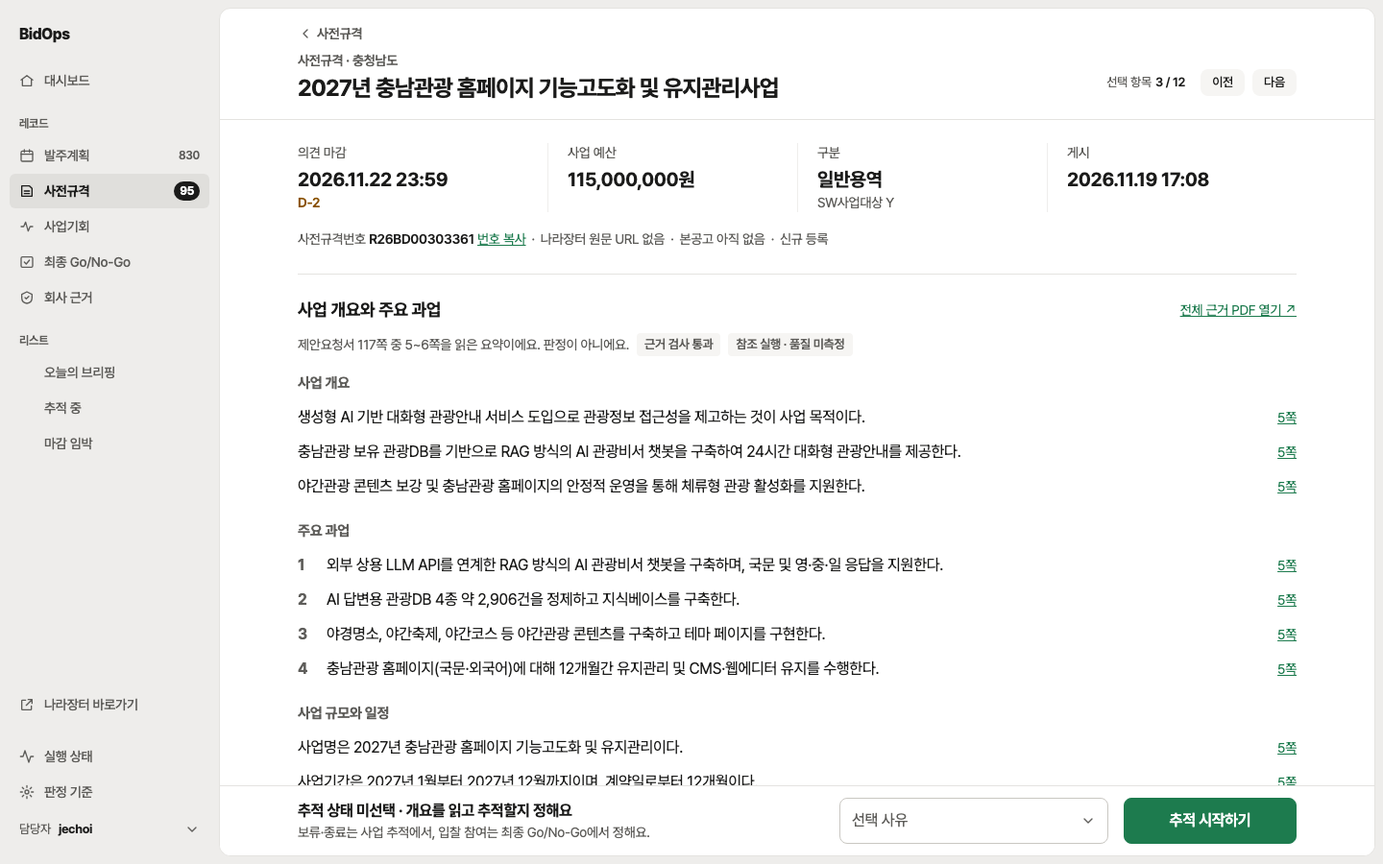
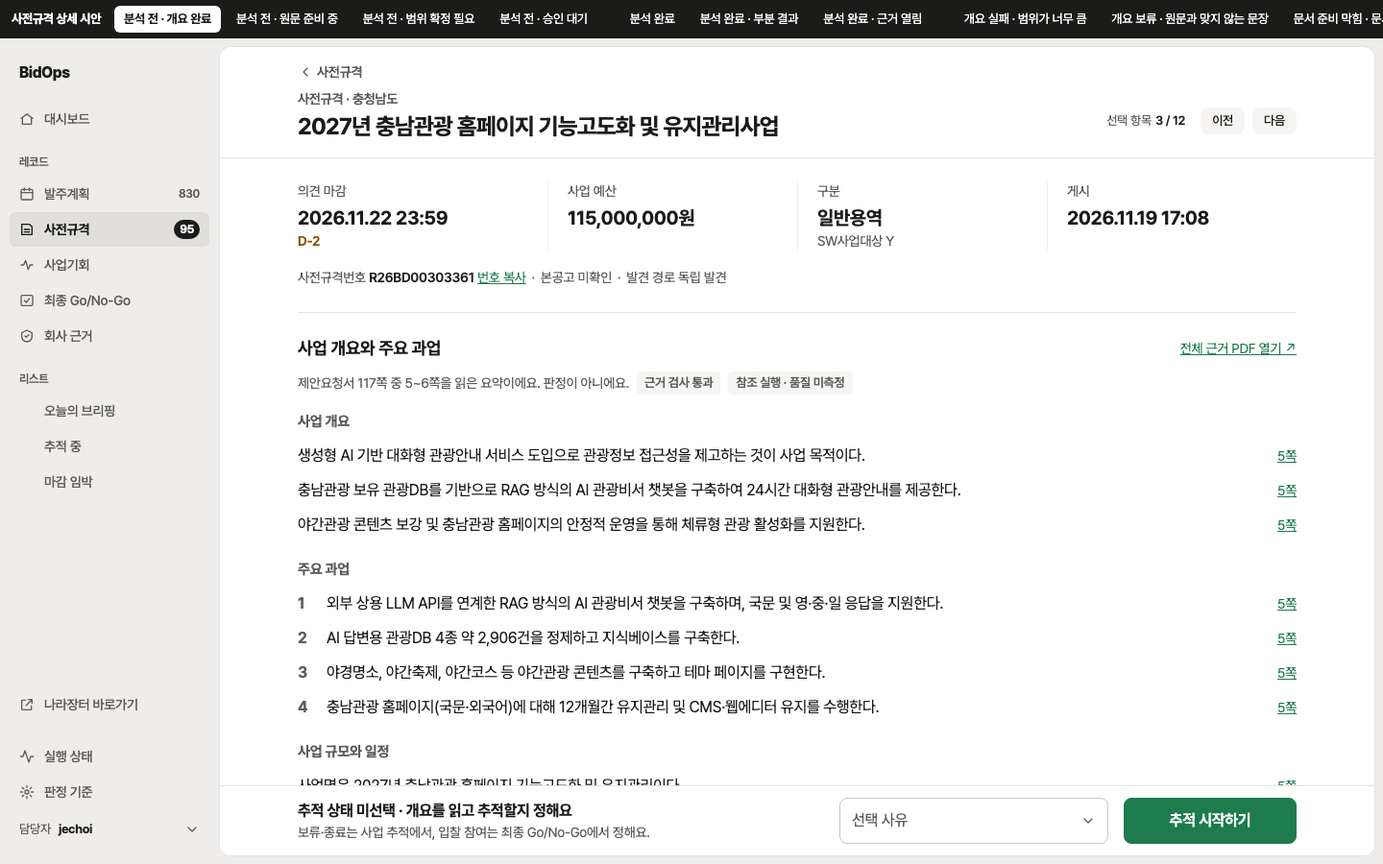
docs: problem-state mockups, planning notes and the overview range finding (2026-11-21)

diff --git a/docs/1121_prespec-detail/mockups/index.html b/docs/1121_prespec-detail/mockups/index.html
@@ -9,7 +9,9 @@
   - 분석 전(a1~a4)은 운영 3753의 공개 공고 정보와 개요 결과를 옮겼다.
   - 분석 완료(b1~b3)는 다른 공고의 실제 엔진 결과 구조와 건수(자격 조건 7·요구사항 41·리스크 11·확인 요청 63)를
     따른 예시다. 회사 근거 문구는 전부 예시이며 실제 회사 역량이 아니다.
-  - ?s=a1|a2|a3|a4|b1|b2|b3 로 상태를 바꾸고 ?bar=0 으로 위쪽 시안 안내 줄을 숨긴다.
+  - 문제 상태(c1~c5)는 운영 최근 200건의 실패·막힘 유형에서 고른 예시다. 공고 정보는 3753을 그대로 쓴다.
+    c 상태에서 ?open=1 이면 처리 상태·기술 정보가 펼쳐지고 해당 블록만 먼저 보인다.
+  - ?s=a1|a2|a3|a4|b1|b2|b3|c1..c5 로 상태를 바꾸고 ?bar=0 으로 위쪽 시안 안내 줄을 숨긴다.
 -->
 <style>
 @font-face{font-family:"Pretendard";src:local("Pretendard Variable"),local("Pretendard"),url("../../../web/frontend/public/fonts/PretendardVariable.woff2") format("woff2");font-weight:100 900;font-display:swap}
@@ -231,6 +233,23 @@ tr.is-selected td:last-child{box-shadow:12px 0 0 var(--color-background-muted)}
 /* 추적 외의 할 일(분석 승인 대기)은 본문 맨 위 한 블록 */
 .sec.task{padding:16px 0}
 .task-row{display:flex;align-items:center;justify-content:space-between;gap:16px}
+
+/* 문제 상태 안내(c1~c5): 회색 채움 한 블록. 무엇이 일어났나(굵게) → 이유 → 할 일 → 사유 코드(작게). */
+.status-notice{padding:20px;border-radius:8px;background:var(--color-background-muted)}
+.status-notice .lead{display:flex;align-items:center;gap:10px}
+.sn-line{display:flex;gap:12px;margin-top:10px;font-size:15px;line-height:23px}
+.sn-line>.k{flex:none;width:44px;font-weight:600}
+.sn-quote{margin:10px 0 0 56px;padding:12px 14px;border-radius:6px;background:#fff;font-size:15px;line-height:23px}
+.sn-quote .cap{margin-top:4px}
+.status-notice .actions{margin:14px 0 0 56px}
+.status-notice .form-row{margin:14px 0 0 56px}
+.status-notice details{margin:6px 0 0 56px}
+.status-notice details .form-row{margin-left:0}
+.status-notice .tag.neutral{background:#fff}
+.mockbar b{flex:none;white-space:nowrap}
+.sn-code{margin-top:14px;font:400 13px/20px ui-monospace,SFMono-Regular,Menlo,monospace;letter-spacing:0;color:var(--color-text-secondary)}
+.tech-block .sub-title:first-child{margin-top:0}
+.tech-block .actions{margin-top:12px}
 </style>
 
 <body>
@@ -248,16 +267,20 @@ const q = new URLSearchParams(location.search);
 const STATES = [
   ['a1', '분석 전 · 개요 완료'], ['a2', '분석 전 · 원문 준비 중'], ['a3', '분석 전 · 범위 확정 필요'], ['a4', '분석 전 · 승인 대기'],
   ['b1', '분석 완료'], ['b2', '분석 완료 · 부분 결과'], ['b3', '분석 완료 · 근거 열림'],
+  ['c1', '개요 실패 · 범위가 너무 큼'], ['c2', '개요 보류 · 원문과 맞지 않는 문장'], ['c3', '문서 준비 막힘 · 문서 확인 필요'],
+  ['c4', '문서 준비 막힘 · 첨부를 받지 못함'], ['c5', '개요 대기'],
 ];
 const S = STATES.some(([k]) => k === q.get('s')) ? q.get('s') : 'a1';
 if (q.get('bar') === '0') document.body.classList.add('nobar');
+const OPEN = S[0] === 'c' && q.get('open') === '1';
 const esc = (s) => String(s).replace(/[&<>"]/g, (c) => ({ '&': '&amp;', '<': '&lt;', '>': '&gt;', '"': '&quot;' }[c]));
 const tag = (t, tone = '') => `<span class="tag ${tone}">${t}</span>`;
 const dot = '<span class="dot">·</span>';
 
 document.getElementById('mockbar').innerHTML = '<b>사전규격 상세 시안</b>' + STATES.map(([k, n], i) =>
-  (i === 4 ? '<span class="sep"></span>' : '') + `<a href="?s=${k}" ${k === S ? 'aria-current="page"' : ''}>${n}</a>`).join('') +
-  `<span class="note">${S[0] === 'a' ? '운영 3753 조회값 (2026-11-21)' : '예시 데이터 · 회사 근거는 실제가 아님'}</span>`;
+  (i === 4 || i === 7 ? '<span class="sep"></span>' : '') + `<a href="?s=${k}" ${k === S && !OPEN ? 'aria-current="page"' : ''}>${n}</a>`).join('') +
+  (S[0] === 'c' ? `<span class="sep"></span><a href="?s=${S}&open=1" ${OPEN ? 'aria-current="page"' : ''}>기술 정보 펼침</a>` : '') +
+  `<span class="note">${S[0] === 'a' ? '운영 3753 조회값 (2026-11-21)' : S[0] === 'c' ? '예시 · 운영 최근 200건의 문제 유형 (2026-11-21)' : '예시 데이터 · 회사 근거는 실제가 아님'}</span>`;
 
 /* ───────── 분석 전 (운영 3753) ───────── */
 const A = {
@@ -288,7 +311,7 @@ const factsA = (extra = '') => `
     <div><dt>구분</dt><dd>일반용역<small>SW사업대상 Y</small></dd></div>
     <div><dt>게시</dt><dd>2026.11.19 17:08</dd></div>${extra}
   </dl>
-  <p class="ident">사전규격번호 <b>R26BD00303361</b> <button class="link" type="button">번호 복사</button>${dot}나라장터 원문 URL 없음${dot}본공고 아직 없음${dot}신규 등록</p>
+  <p class="ident">사전규격번호 <b>R26BD00303361</b> <button class="link" type="button">번호 복사</button>${dot}본공고 미확인${dot}발견 경로 독립 발견</p>
 </section>`;
 
 const reasonOptions = '<option>주력 분야와 맞음</option><option>기존 고객·유사 실적</option><option>더 살펴볼 가치 있음</option><option>기타 · 직접 입력</option>';
@@ -345,6 +368,150 @@ function pageA() {
 <section class="sec" id="files"><div class="sec-head"><h2 class="sec-title">원문·첨부<span class="n">1건</span></h2></div>${S === 'a2' ? filesA.converting : filesA.ready}</section>
 ${processA(S === 'a3', meta)}
 <p class="foot">시안 · 운영 3753의 2026-11-21 조회값을 옮겼어요.</p>`;
+}
+
+/* ───────── 문제 상태 (c1~c5, 운영 최근 200건 분포에서 고른 예시) ─────────
+   화면은 사유 코드를 고정 문장으로 바꾸고, 쪽 번호·건수·실패 문장은 서버 값을 그대로 넣는다.
+   모델이 쓴 문장은 바꿔 쓰지 않고 따옴표 블록에 원문 그대로 둔다. */
+const REASON = {
+  input_capacity_exceeded: '한 번에 읽을 수 있는 분량보다 많았어요',
+  range_fallback: '사업 개요 위치를 자동으로 찾지 못해 범위를 넓게 잡았어요',
+  semantic_review_failed: '초안 문장을 원문과 대조했더니 맞지 않는 문장이 있었어요',
+  insufficient_evidence: '근거 부족 · 그 쪽에서 이 내용을 찾지 못했어요',
+  ocr_issue: '첨부 문서의 글자 인식(OCR)이나 쪽 구조를 자동으로 확정하지 못했어요',
+  attachments_failed: '받은 첨부가 없어 문서를 준비하지 못했어요',
+};
+const SRV = { // 서버 값(예시)
+  c1: { pages: 161, from: 1, to: 60, source: 'fallback', candidates: 38 },
+  c2: { pages: 117, from: 3, to: 5, failed: [{ text: '2026년 10월부터 2027년 12월까지 유지관리 용역 수행', reason: 'insufficient_evidence', pages: [5] }] },
+  c3: { file: '제안요청서.pdf', message: 'OCR 또는 page 구조화 확인이 필요합니다' },
+  c4: { total: 1, done: 0, blocked: 1 },
+};
+const qOpen = (s, hash = '') => `?s=${s}&open=1${q.get('bar') === '0' ? '&bar=0' : ''}${hash}`;
+const rangeFields = (c, btn) => `<form class="form-row" style="grid-template-columns:140px 140px auto 1fr" onsubmit="return false">
+    <div class="field"><label for="ps">시작 쪽</label><input id="ps" inputmode="numeric" placeholder="쪽 번호"></div>
+    <div class="field"><label for="pe">끝 쪽</label><input id="pe" inputmode="numeric" placeholder="쪽 번호"></div>
+    <button class="btn" type="submit" style="height:48px">${btn}</button>
+    <button class="link" type="button" style="justify-self:start;align-self:center">절 제목에서 고르기 (후보 ${c}개)</button>
+  </form>`;
+const notice = ({ tg, lead, why, extra = '', what, act = '', code }) => `<div class="status-notice" role="status">
+  <p class="lead">${tg}<span>${lead}</span></p>
+  <p class="sn-line"><span class="k">이유</span><span>${why}</span></p>${extra}
+  <p class="sn-line"><span class="k">할 일</span><span>${what}</span></p>${act}
+  <p class="sn-code">${code}</p>
+</div>`;
+
+function noticeC() {
+  if (S === 'c1') {
+    const v = SRV.c1;
+    return notice({
+      tg: tag('개요 실패', 'err'), lead: '개요를 만들지 못했어요. 읽을 범위가 너무 넓어요',
+      why: `자동으로 고른 범위 ${v.from}~${v.to}쪽(전체 ${v.pages}쪽)이 ${REASON.input_capacity_exceeded}. ${REASON.range_fallback}.`,
+      what: '사업 개요가 있는 쪽으로 범위를 좁혀 확정해 주세요. 확정하면 그 범위로 개요를 한 번 새로 실행해요.',
+      act: rangeFields(v.candidates, '범위 확정') + `<p class="cap" style="margin:8px 0 0 56px">이전 범위 ${v.from}~${v.to}쪽${dot}전체 ${v.pages}쪽</p>`,
+      code: `input_capacity_exceeded${dot}range_source ${v.source}`,
+    });
+  }
+  if (S === 'c2') {
+    const v = SRV.c2;
+    return notice({
+      tg: tag('개요 보류', 'warn'), lead: '개요 초안을 보류했어요. 원문과 맞지 않는 문장이 있어요',
+      why: `${v.from}~${v.to}쪽을 읽고 초안을 만들었어요. ${REASON.semantic_review_failed}. 맞지 않는 문장은 ${v.failed.length}개예요.`,
+      extra: v.failed.map((f) => `<blockquote class="sn-quote">${esc(f.text)}<p class="cap">근거로 든 쪽 ${f.pages.join('·')}쪽${dot}${REASON[f.reason]}</p></blockquote>`).join(''),
+      what: `원문 ${v.failed[0].pages[0]}쪽을 열어 직접 확인하거나, 다른 범위를 확정해 개요를 다시 실행해 주세요.`,
+      act: `<div class="actions"><button class="btn" type="button">PDF ${v.failed[0].pages[0]}페이지 열기 ↗</button><button class="link" type="button" aria-expanded="false" aria-controls="rerun" onclick="const r=document.getElementById('rerun');r.hidden=!r.hidden;this.setAttribute('aria-expanded',String(!r.hidden))">다른 범위로 다시 실행하기</button></div>
+        <div id="rerun" hidden>${rangeFields(38, '범위 확정')}<p class="cap" style="margin:8px 0 0 56px">이전 범위 ${v.from}~${v.to}쪽${dot}전체 ${v.pages}쪽</p></div>`,
+      code: `semantic_review_failed${dot}needs_human_review${dot}${v.failed[0].reason}`,
+    });
+  }
+  if (S === 'c3') {
+    const v = SRV.c3;
+    return notice({
+      tg: tag('문서 준비 막힘', 'warn'), lead: '문서 준비가 멈췄어요. 첨부 문서를 사람이 확인해야 해요',
+      why: `${esc(v.file)}에서 ${REASON.ocr_issue}.`,
+      what: '문서 준비에서 문서를 확인하고 확정해 주세요. 확정해야 개요를 실행할 수 있어요.',
+      act: `<div class="actions"><a class="link" href="${qOpen('c3', '#prep')}">문서 준비 열기</a></div>`,
+      code: 'ocr_issue',
+    });
+  }
+  if (S === 'c4') {
+    const v = SRV.c4;
+    return notice({
+      tg: tag('첨부 받기 실패', 'err'), lead: '첨부를 받지 못해 개요를 만들 수 없어요',
+      why: `나라장터에서 첨부 ${v.total}건을 받으려 했지만 ${v.blocked}건이 차단됐어요. ${REASON.attachments_failed}.`,
+      what: '원본 열기로 나라장터에서 첨부를 직접 확인해 주세요. 이 화면에서는 아직 첨부를 다시 받을 수 없어요.',
+      act: '<div class="actions"><button class="btn" type="button">원본 열기 ↗</button></div>',
+      code: `attachments_failed${dot}첨부 ${v.total}건${dot}차단 ${v.blocked}`,
+    });
+  }
+  return notice({
+    tg: tag('개요 대기', 'neutral'),lead: '개요 실행을 기다리고 있어요',
+    why: '원문 준비는 끝났고 개요는 아직 시작하지 않았어요.',
+    what: '따로 할 일은 없어요. 개요는 의견 마감 전이거나 추적 중인 사전규격에서 자동으로 진행해요. 마감이 지난 건은 추적을 시작하면 진행해요.',
+    code: `bundle_ready${dot}개요 실행 기록 없음`,
+  });
+}
+
+const filesC = {
+  c1: filesTable('<tr><td>제안요청서.hwpx</td><td>HWPX · 변환 PDF 161쪽</td><td>준비 완료</td><td class="act"><a class="link" href="#">원본 열기</a>　<a class="link" href="#">변환 PDF</a>　<a class="link" href="#">다운로드</a></td></tr>'),
+  c2: filesA.ready, c5: filesA.ready,
+  c3: filesTable(`<tr><td>제안요청서.pdf</td><td>PDF</td><td>${tag('문서 확인 필요', 'warn')}</td><td class="act"><a class="link" href="#">원본 열기</a>　<a class="link" href="#">다운로드</a></td></tr>`),
+  c4: filesTable(`<tr><td>첨부 1 · 확장자 미확인 · 크기 미확인</td><td class="k">미확인</td><td>${tag('받지 못함', 'err')}</td><td class="act"><a class="link" href="#">원본 열기 ↗</a></td></tr>`),
+};
+
+/* 처리 상태·기술 정보: 문제 상태에서도 기본은 접힘. ?open=1 이면 해당 블록만 먼저 보이고 나머지는 한 번 더 접는다. */
+function processC() {
+  const step = {
+    c1: ['1건 완료', '확정 완료 · 수정본 1', tag('실패', 'err')],
+    c2: ['1건 완료', '확정 완료 · 수정본 1', tag('보류 · 사람 확인', 'warn')],
+    c3: ['1건 완료', tag('확인 필요 · 작성 중', 'warn'), '시작 전'],
+    c4: [tag('차단 1', 'err'), '없음', '시작 전'],
+    c5: ['1건 완료', '확정 완료 · 수정본 1', '대기'],
+  }[S];
+  const blocks = {
+    steps: `<h3 class="sub-title">자동 준비 단계</h3><ol class="steps">
+      <li><span class="no">1</span><b>첨부 취득</b><span>${step[0]}</span></li>
+      <li><span class="no">2</span><b>문서 묶음</b><span>${step[1]}</span></li>
+      <li><span class="no">3</span><b>개요 검토</b><span>${step[2]}</span></li></ol>
+      <p class="cap" style="margin-top:8px">첨부 취득·문서 준비·개요 검토는 의견 마감 전이거나 추적 중인 사전규격에서 자동으로 진행해요.</p>`,
+    run: S === 'c1'
+      ? `<h3 class="sub-title">마지막 개요 실행</h3><dl class="dl-inline">
+          <dt>상태</dt><dd>${tag('실패', 'err')} failed</dd><dt>사유 코드</dt><dd>input_capacity_exceeded</dd>
+          <dt>읽을 범위</dt><dd>1~60쪽 · 전체 161쪽 · range_source fallback</dd><dt>실행 시각</dt><dd>2026.11.20 13:48</dd></dl>`
+      : `<h3 class="sub-title">마지막 개요 실행</h3><dl class="dl-inline">
+          <dt>상태</dt><dd>${tag('보류', 'warn')} needs_human_review</dd><dt>사유 코드</dt><dd>semantic_review_failed</dd>
+          <dt>읽은 범위</dt><dd>3~5쪽 · 전체 117쪽</dd><dt>실행 시각</dt><dd>2026.11.20 13:48</dd></dl>
+        <table style="margin-top:12px"><thead><tr><th>failed_claims</th><th>사유</th><th class="act">근거 쪽</th></tr></thead><tbody>
+          <tr><td>2026년 10월부터 2027년 12월까지 유지관리 용역 수행</td><td>insufficient_evidence</td><td class="act"><a class="link" href="#">5쪽</a></td></tr></tbody></table>`,
+    prep: `<h3 class="sub-title" id="prep">문서 준비</h3><dl class="dl-inline">
+        <dt>문서 묶음</dt><dd>${tag('작성 중', 'warn')} draft</dd><dt>막힌 이유</dt><dd>ocr_issue · OCR 또는 page 구조화 확인이 필요합니다</dd>
+        <dt>대상 문서</dt><dd>제안요청서.pdf</dd></dl>
+      <div class="actions"><button class="btn btn-sm" type="button">문서 확인하기</button><button class="btn btn-sm" type="button">문서 묶음 확정하기</button></div>
+      <p class="cap" style="margin-top:8px">문서 묶음 편집, 업로드, 확정 (현재 문서 준비 패널을 그대로 둡니다)</p>`,
+    fetch: `<h3 class="sub-title">첨부 취득</h3><dl class="dl-inline">
+        <dt>결과</dt><dd>첨부 1건 · 완료 0 · 차단 1</dd><dt>차단 사유</dt><dd class="k">미확인</dd></dl>
+      <table style="margin-top:12px"><thead><tr><th>첨부</th><th>취득 결과</th><th class="act">열기</th></tr></thead><tbody>
+        <tr><td>첨부 1 · 확장자 미확인 · 크기 미확인</td><td>${tag('차단', 'err')}</td><td class="act"><a class="link" href="#">원본 열기 ↗</a></td></tr></tbody></table>
+      <p class="cap" style="margin-top:8px">첨부 다시 받기 화면은 아직 없어요.</p>`,
+    history: '<details><summary>처리 이력과 이전 개요 결과</summary><p class="cap">사전규격 목록 · 사업기회 · 변경 일시와 사유</p></details>',
+    tech: '<details><summary>기술 정보</summary><p class="cap">주장 검증 진단, 고정 입력과 식별 해시, 실행 식별 정보</p></details>',
+  };
+  const first = { c1: 'run', c2: 'run', c3: 'prep', c4: 'fetch', c5: 'steps' }[S];
+  const rest = ['steps', 'fetch', 'prep', 'run'].filter((k) => k !== first && !(k === 'run' && !['c1', 'c2'].includes(S)) && !(k === 'fetch' && S !== 'c4') && !(k === 'prep' && S === 'c4'))
+    .map((k) => `<div class="tech-block" style="margin-top:16px">${k === 'prep' && S !== 'c3' ? '<details><summary>문서 준비 열기</summary><p class="cap">문서 묶음 편집, 업로드, 확정 (현재 문서 준비 패널을 그대로 둡니다)</p></details>' : blocks[k]}</div>`).join('');
+  const meta = { c1: '개요 실패 · 범위 확정 필요', c2: '개요 보류 · 원문 대조 확인 필요', c3: '문서 준비 막힘 · 문서 확인 필요', c4: '첨부 받기 실패 · 1건 중 1건 차단', c5: '원문 준비 완료 · 개요 대기' }[S];
+  const body = OPEN
+    ? `<div class="tech-block">${blocks[first]}</div><details style="margin-top:16px"><summary>나머지 기술 정보 보기</summary>${rest}<div class="tech-block" style="margin-top:8px">${blocks.history}${blocks.tech}</div></details>`
+    : '<p class="cap">자동 준비 단계, 문서 준비, 처리 이력, 기술 정보</p>';
+  return `<details class="sec sec-fold" id="process" ${OPEN ? 'open' : ''}><summary>처리 상태·기술 정보<span class="sec-meta">${meta}</span></summary>${body}</details>`;
+}
+
+function pageC() {
+  return factsA() + `
+<section class="sec" id="overview"><div class="sec-head"><h2 class="sec-title">사업 개요와 주요 과업</h2></div>${noticeC()}</section>
+<section class="sec" id="files"><div class="sec-head"><h2 class="sec-title">원문·첨부<span class="n">1건</span></h2></div>${filesC[S]}</section>
+${processC()}
+<p class="foot">시안 · 공고 정보는 운영 3753, 문제 상태 값은 운영 최근 200건에서 고른 예시예요.</p>`;
 }
 
 /* ───────── 분석 완료 (예시: 다른 공고의 실제 엔진 결과 구조·건수) ───────── */
@@ -556,7 +723,7 @@ function pageB() {
     <div><dt>게시</dt><dd>2026.11.20 10:30</dd></div>
     <div><dt>추적 상태</dt><dd>${partial ? '계속 추적' : '미선택'}</dd></div>
   </dl>
-  <p class="ident">사전규격번호 <b>R26BD00309999</b> <button class="link" type="button">번호 복사</button>${dot}<a class="link" href="#">나라장터 원문 ↗</a>${dot}본공고 아직 없음</p>
+  <p class="ident">사전규격번호 <b>R26BD00309999</b> <button class="link" type="button">번호 복사</button>${dot}<a class="link" href="#">나라장터 원문 ↗</a>${dot}본공고 미확인</p>
 </section>
 ${summaryB()}${gatesB()}${todosB()}${reqsB()}${risksB()}${termsB}
 <details class="sec sec-fold" id="overview"><summary>사업 개요와 주요 과업<span class="sec-meta">개요 완료 · 과업 5건</span></summary><p class="cap">분석 전 화면의 개요 구역과 같은 내용이에요.</p></details>
@@ -580,8 +747,9 @@ function topbar() {
 
 /* 하단 결정 띠. 분석 전은 추적 시작 하나, 분석 완료는 계속 추적·보류·종료. */
 function decisionBar() {
-  if (S[0] === 'a') {
-    const lead = { a1: '개요를 읽고 추적할지 정해요', a2: '개요가 나오기 전에도 추적을 시작할 수 있어요', a3: '개요 없이도 추적을 시작할 수 있어요', a4: '추적할지 정해요' }[S];
+  if (S[0] !== 'b') {
+    const lead = { a1: '개요를 읽고 추적할지 정해요', a2: '개요가 나오기 전에도 추적을 시작할 수 있어요', a3: '개요 없이도 추적을 시작할 수 있어요', a4: '추적할지 정해요',
+      c1: '개요 없이도 추적을 시작할 수 있어요', c2: '개요 없이도 추적을 시작할 수 있어요', c3: '개요 없이도 추적을 시작할 수 있어요', c4: '개요 없이도 추적을 시작할 수 있어요', c5: '개요가 나오기 전에도 추적을 시작할 수 있어요' }[S];
     return `<div class="decision-bar" id="decision-bar"><form class="decision-bar-inner" onsubmit="return false">
       <p class="txt"><b>추적 상태 미선택 · ${lead}</b>${boundaryText}</p>
       <div class="field"><select aria-label="선택 사유"><option>선택 사유</option>${reasonOptions}</select></div>
@@ -598,7 +766,7 @@ function decisionBar() {
 let lastTrigger = null;
 function draw() {
   topbar();
-  document.getElementById('record').innerHTML = S[0] === 'a' ? pageA() : pageB();
+  document.getElementById('record').innerHTML = S[0] === 'a' ? pageA() : S[0] === 'c' ? pageC() : pageB();
   document.getElementById('ev-drawer')?.remove();
   document.getElementById('decision-bar')?.remove();
   const panel = document.getElementById('panel');
@@ -626,6 +794,7 @@ document.addEventListener('keydown', (e) => { if (e.key === 'Escape' && selected
 window.addEventListener('resize', () => { if (selected) draw(); });
 draw();
 if (S === 'b3') document.getElementById('reqs').scrollIntoView();
+if (OPEN) (document.getElementById(location.hash.slice(1)) || document.getElementById('process')).scrollIntoView();
 </script>
 </body>
 </html>

diff --git a/docs/1121_prespec-detail/README.md b/docs/1121_prespec-detail/README.md
@@ -178,6 +178,36 @@
 
 mock 서버에서 보는 주소(`npm run dev:mock`): 분석 전 `/pre-specs/992?overview=completed&bundle=ready`, 범위 확정 `/pre-specs/992?overview=pending_range`, 분석 완료 `/pre-specs/992?overview=completed&analysis=completed`, 부분 결과 `…&analysis=partial`.
 
+## 문제 상태 안내 (2026-11-21 추가, 사용자 확인 뒤 구현)
+
+사용자(jechoi)가 시안 c1~c5를 확인하고 "확인했어 적용해줘"로 구현·운영 반영을 승인했다. 같은 날 "'원문 URL 없음'와 같은 안내문은 삭제해야지"에 따라 식별 줄의 원문 주소 없음 안내를 지웠다(사전규격 API는 상세 주소를 주지 않는다. 주소가 왔는데 쓸 수 없을 때만 `원문 링크 확인 불가`).
+
+배포 뒤 운영 최근 200건(전체 1,258건)을 집계하니 개요 완료는 85건이고, 50건은 개요 실패·사람 확인 필요, 46건은 문서 준비 막힘으로 열린다. 이 상태들에서 화면 위쪽은 실제 사유를 말하지 않고(모두 "사유 코드 없음 — 결정적 선택기가 범위를 정하지 못했어요" 또는 "개요 검토 미시작") 처리 상태 구역 전체가 자동으로 열려 본문이 2,000~4,200px가 된다. 집계와 원인은 [findings](../tracking/findings/model-review.md)에 있다.
+
+시안은 `mockups/index.html`의 `?s=c1`~`c5`이고 캡처는 `shots/c*-{1440,1280}.png`, 처리 상태 구역을 연 모습은 `?open=1`(`shots/c*-open-*.png`)이다.
+
+| 키 | 상태 (운영 사유 코드, 최근 200건 중 건수) | 맨 위 안내 | 할 일 |
+|---|---|---|---|
+| c1 | 개요 실패 · 범위가 너무 큼 (`input_capacity_exceeded`, 41) | 개요를 만들지 못했어요. 읽을 범위가 너무 넓어요 | 쪽 범위를 좁혀 확정(범위 폼, 이전 범위 표시) |
+| c2 | 개요 보류 · 원문과 맞지 않는 문장 (`semantic_review_failed`·`deterministic_check_failed`, 8) | 개요 초안을 보류했어요. 원문과 맞지 않는 문장이 있어요 | 해당 쪽 PDF 확인, 또는 다른 범위로 다시 실행 |
+| c3 | 문서 준비 막힘 · 문서 확인 필요 (`ocr_issue`, 19) | 문서 준비가 멈췄어요. 첨부 문서를 사람이 확인해야 해요 | 문서 준비 열기 |
+| c4 | 문서 준비 막힘 · 첨부를 받지 못함 (`attachments_failed`, 17) | 첨부를 받지 못해 개요를 만들 수 없어요 | 원본 열기(다시 받기는 이 화면에 아직 없음을 그대로 적는다) |
+| c5 | 개요 대기 (`bundle_ready`, 12) | 개요 실행을 기다리고 있어요 | 없음 |
+
+- 안내는 `사업 개요와 주요 과업` 구역 맨 위 한 블록이다: 무슨 일인지(굵게) → 이유 → 할 일 → 사유 코드(작게). 이유 문장은 서버 사유 코드를 고정 문장에 짝지은 것이고 쪽 번호·건수·실패한 문장은 서버 값 그대로다. 화면이 사실을 지어내지 않는다.
+- 처리 상태·기술 정보 구역은 문제 상태에서도 닫아 두고 요약 한 줄이 멈춘 단계를 말한다. 열면 관련 블록 하나만 먼저 보이고 나머지는 `나머지 기술 정보 보기` 뒤에 둔다(삭제가 아니라 이동).
+- 주 버튼은 하단 띠의 `추적 시작하기` 하나이고 안내 안의 조작은 보조 버튼·글자 링크다.
+- 확인이 필요한 가정: `attachment_bytes_missing`(14)·`structure_unavailable`(1)·`provider_http_error`(1)는 시안에 따로 그리지 않았다(c3·c4·c1의 문장 틀을 쓴다). `needs_human_review`에서 통과한 문장과 경고를 함께 보일지는 정하지 않았다.
+
+구현(작업 브랜치 `fix/prespec-detail-polish`):
+
+- 사유 코드 → 고정 문장 표와 안내 모델은 `web/frontend/src/lib/preSpecProblemNotice.ts` 한 곳, 그리기는 `components/pre-specs/PreSpecProblemNotice.tsx`다. 판정 순서는 문서 묶음 차단 issue(c3) → 첨부 취득 전부 실패(c4) → 개요 run 실패·보류(c1·c2·그 밖의 사유) → 개요 대기(c5)다. 모르는 사유 코드는 일반 문장과 코드 그대로를 보인다.
+- 범위 확정 폼은 기존 폼을 안내 안에 그대로 쓴다(담당자 이름 칸 포함이라 시안보다 길다). 다시 실행 단추는 만들지 않았다(백엔드에 없다).
+- 처리 상태·기술 정보 구역은 안내가 있는 상태에서 닫혀 있고 요약 줄이 멈춘 단계를 말한다. 열면 관련 블록이 먼저, 나머지는 `나머지 기술 정보 보기` 뒤에 있다.
+- 예전 문구로 남긴 상태: 취소된 run, 개요 기능 꺼짐·미확인, 마감이 지났거나 마감 미확인인 미추적 건, 첨부 취득 대기. 이 상태들은 처리 상태 구역이 여전히 자동으로 열린다(운영 최근 200건 중 7건).
+- 같은 브랜치의 작은 수정: 첨부 표는 실제로 열리는 링크만 그리고(나라장터 원문은 `원본 열기`만, 보관 파일은 `다운로드`), 처리 상태 칸은 값이 있을 때만, 크기는 읽기 쉬운 단위(정확한 바이트는 title). 식별 줄 `발견 경로 독립 발견`. 브라우저 탭 제목은 레코드 제목(목록은 화면 이름).
+- 검증: `tsc -p tsconfig.app.json` 통과. 화면 검사 7개 파일(문제 안내·개요·사전규격·브리핑·상세 배치·셸·문서 패널) 124 통과·2 실패(변경 전부터 실패하던 `design-shell` native compact 2건). 새 빌드를 운영 API에 읽기 전용(GET만)으로 붙여 실제 11건(완료, 범위 과대 fallback·auto, 모델 호출 오류, 원문 대조 실패, 첨부 취득 실패, 묶음 차단, 개요 대기, 마감 지남, 첨부 대기)을 열어 문구·수치·주 버튼 1개·가로 넘침 없음을 확인했다. 범위 확정 제출과 추적 저장은 운영에 쓰기라 해 보지 않았다.
+
 ## 승인 뒤 할 일
 
 아래 중 ADR-0076(결정 13), `business-rules.md`의 추적 결정 범위, 0917 spec의 후보 구역, 테스트 단언, 죽은 코드 정리는 작업 브랜치에 반영했다. `docs/ADR.md` 색인과 `docs/tracking/status.md`는 운영 checkout에 미커밋 수정이 있어 손대지 않았다.

diff --git a/docs/tracking/findings/model-review.md b/docs/tracking/findings/model-review.md
@@ -2,6 +2,16 @@
 
 [전체 색인](../findings.md). 미해결 또는 일부 조치 뒤 검증이 남은 항목이다. 제목의 날짜는 마지막 관측·기록 시점이며 2026-10-21에 다시 재현했다는 뜻이 아니다. 과거 기능명·정책·환경을 현재에 적용하기 전에 소스와 마지막 실행 증거를 확인한다.
 
+## 사전규격 개요의 약 3분의 1이 범위가 넓게 잡혀 `input_capacity_exceeded`로 끝나고, 화면은 그 사유를 말하지 않는다 (2026-11-21, 미해결)
+
+- **관측.** 2026-11-21 운영 `GET /api/pre-specs?limit=200`(전체 1,258건 중 최근 200건)과 건별 `GET /api/pre-specs/{id}/overview`를 읽었다. 개요 run이 있는 135건 중 완료 85, 실패 42, 사람 확인 필요 8이다. 실패 42건 중 41건이 `input_capacity_exceeded`이고(나머지 1건 `provider_http_error`), 그중 35건은 모델을 한 번도 부르지 않고(`call_count=0`) 호출 전 용량 검사에서 끝났다. 41건의 `range_source`는 `fallback` 26·`auto` 15이고 읽으려던 범위는 60쪽이 12건, 그 밖에 7~49쪽이다. 완료 85건의 범위는 1~6쪽이다(`auto` 84). 사람 확인 필요 8건은 `semantic_review_failed` 7·`deterministic_check_failed` 1이다. 실행 시각은 2026-11-21 06~09시 KST 한 구간에 완료·실패가 섞여 있어 모델 장애가 아니다.
+- **해석(추정).** 범위 선택기가 사업 개요 구간을 좁게 찾지 못하면 넓은 범위(fallback은 앞 60쪽)를 잡고, 그 분량이 로컬 모델 문맥(ctx32k, 출력 예약 8192)의 입력 상계를 넘어 fail closed한다. 입력 상계가 작다는 점은 [engineering-notes](../../engineering-notes.md) "LiteLLM ctx32k에서 개요가 …로 끝난다"에 있다. 선택기가 왜 못 찾는지(문서 유형·목차 형식)는 보지 않았다.
+- **영향.** 이 건들은 사람이 쪽 범위를 확정해야 개요가 생긴다. 화면(`/pre-specs/:id`)은 50건 모두에 "확인 사유 · 사유 코드 없음 — 결정적 선택기가 범위를 정하지 못했어요"를 보여 실제 사유(범위 과대·내용 검증 실패·모델 호출 오류)를 구분하지 못한다. `range_reason_codes`가 비어 있고 사유는 run의 `reason_codes`에 있기 때문이다. 같은 집계에서 문서 준비가 막힌 46건(`ocr_issue` 19·`attachment_bytes_missing` 14·`structure_unavailable` 1의 차단 issue, 첨부 취득 전부 차단·실패 17)도 화면 위쪽에는 "개요 검토 미시작"만 보인다.
+- **재현 조건.** 사업 개요 구간을 선택기가 좁히지 못하는 문서(예: notice 3970·3958·3951, 범위 1~60쪽, `call_count=0`).
+- **지금 해결하지 않은 이유.** 선택기·입력 한도 변경은 개요 정책과 품질에 닿아 새 측정이 필요하고, 화면 안내는 구성 변경이라 시안 확인이 먼저다(시안은 [`docs/1121_prespec-detail/`](../../1121_prespec-detail/README.md)에 추가).
+- **조치(화면만, 2026-11-21).** 상세 화면이 run의 `reason_codes`와 묶음 차단 issue·첨부 취득 실패를 사람 말로 보이고 이전 범위를 함께 보인다(구현 내용은 [`docs/1121_prespec-detail/`](../../1121_prespec-detail/README.md) "문제 상태 안내"). 원인(범위 과대)은 그대로다.
+- **후속 방향.** ① (조치함) 화면 안내. ② fallback 범위가 입력 상계를 넘을 것이 분명하면 실행 전에 "범위 확정 필요"로 바로 보내 실패 run을 만들지 않는 방안을 검토한다. ③ 선택기가 못 찾는 문서 유형을 표본으로 분류한다.
+
 ## RL-03 결정적 대조가 요구사항을 회사 사실에 연결하지 못해 gap을 하나도 찾지 못한다 (2026-10-20, 미해결)
 
 - 재현: RL-05 실제 10건(정책 v11, 회사 근거 v4) — 10건 모두 판정 완료했지만 모델 카드 상태 447개가 전부 `unknown`, met·gap 0, 차단 조건 0. gold는 7개 차단 조건(대구 외 상주 5·회사 제외 분야 HW 2)을 기록했다.

diff --git a/docs/tracking/findings.md b/docs/tracking/findings.md
@@ -15,6 +15,7 @@
 
 ### 모델 판정·근거 대조
 
+- [사전규격 개요의 약 3분의 1이 범위가 넓게 잡혀 `input_capacity_exceeded`로 끝나고, 화면은 그 사유를 말하지 않는다 (2026-11-21, 미해결)](findings/model-review.md#사전규격-개요의-약-3분의-1이-범위가-넓게-잡혀-input_capacity_exceeded로-끝나고-화면은-그-사유를-말하지-않는다-2026-11-21-미해결)
 - [9월 심층검토 v2 조치와 잔여 품질 범위](findings/model-review.md#2026-09-22-심층검토-고도화의-처리-범위)
 - [RL-03 결정적 대조가 요구사항을 회사 사실에 연결하지 못해 gap을 하나도 찾지 못한다 (2026-10-20, 미해결)](findings/model-review.md#rl-03-결정적-대조가-요구사항을-회사-사실에-연결하지-못해-gap을-하나도-찾지-못한다-2026-10-20-미해결)
 - [RL-03 카드 판정은 제약 하나의 검증 실패로 판정 전체가 사람 검토로 끝난다 (2026-10-18, 설계·구현됨, 실제 증명 대기)](findings/model-review.md#rl-03-카드-판정은-제약-하나의-검증-실패로-판정-전체가-사람-검토로-끝난다-2026-10-18-설계구현됨-실제-증명-대기)
